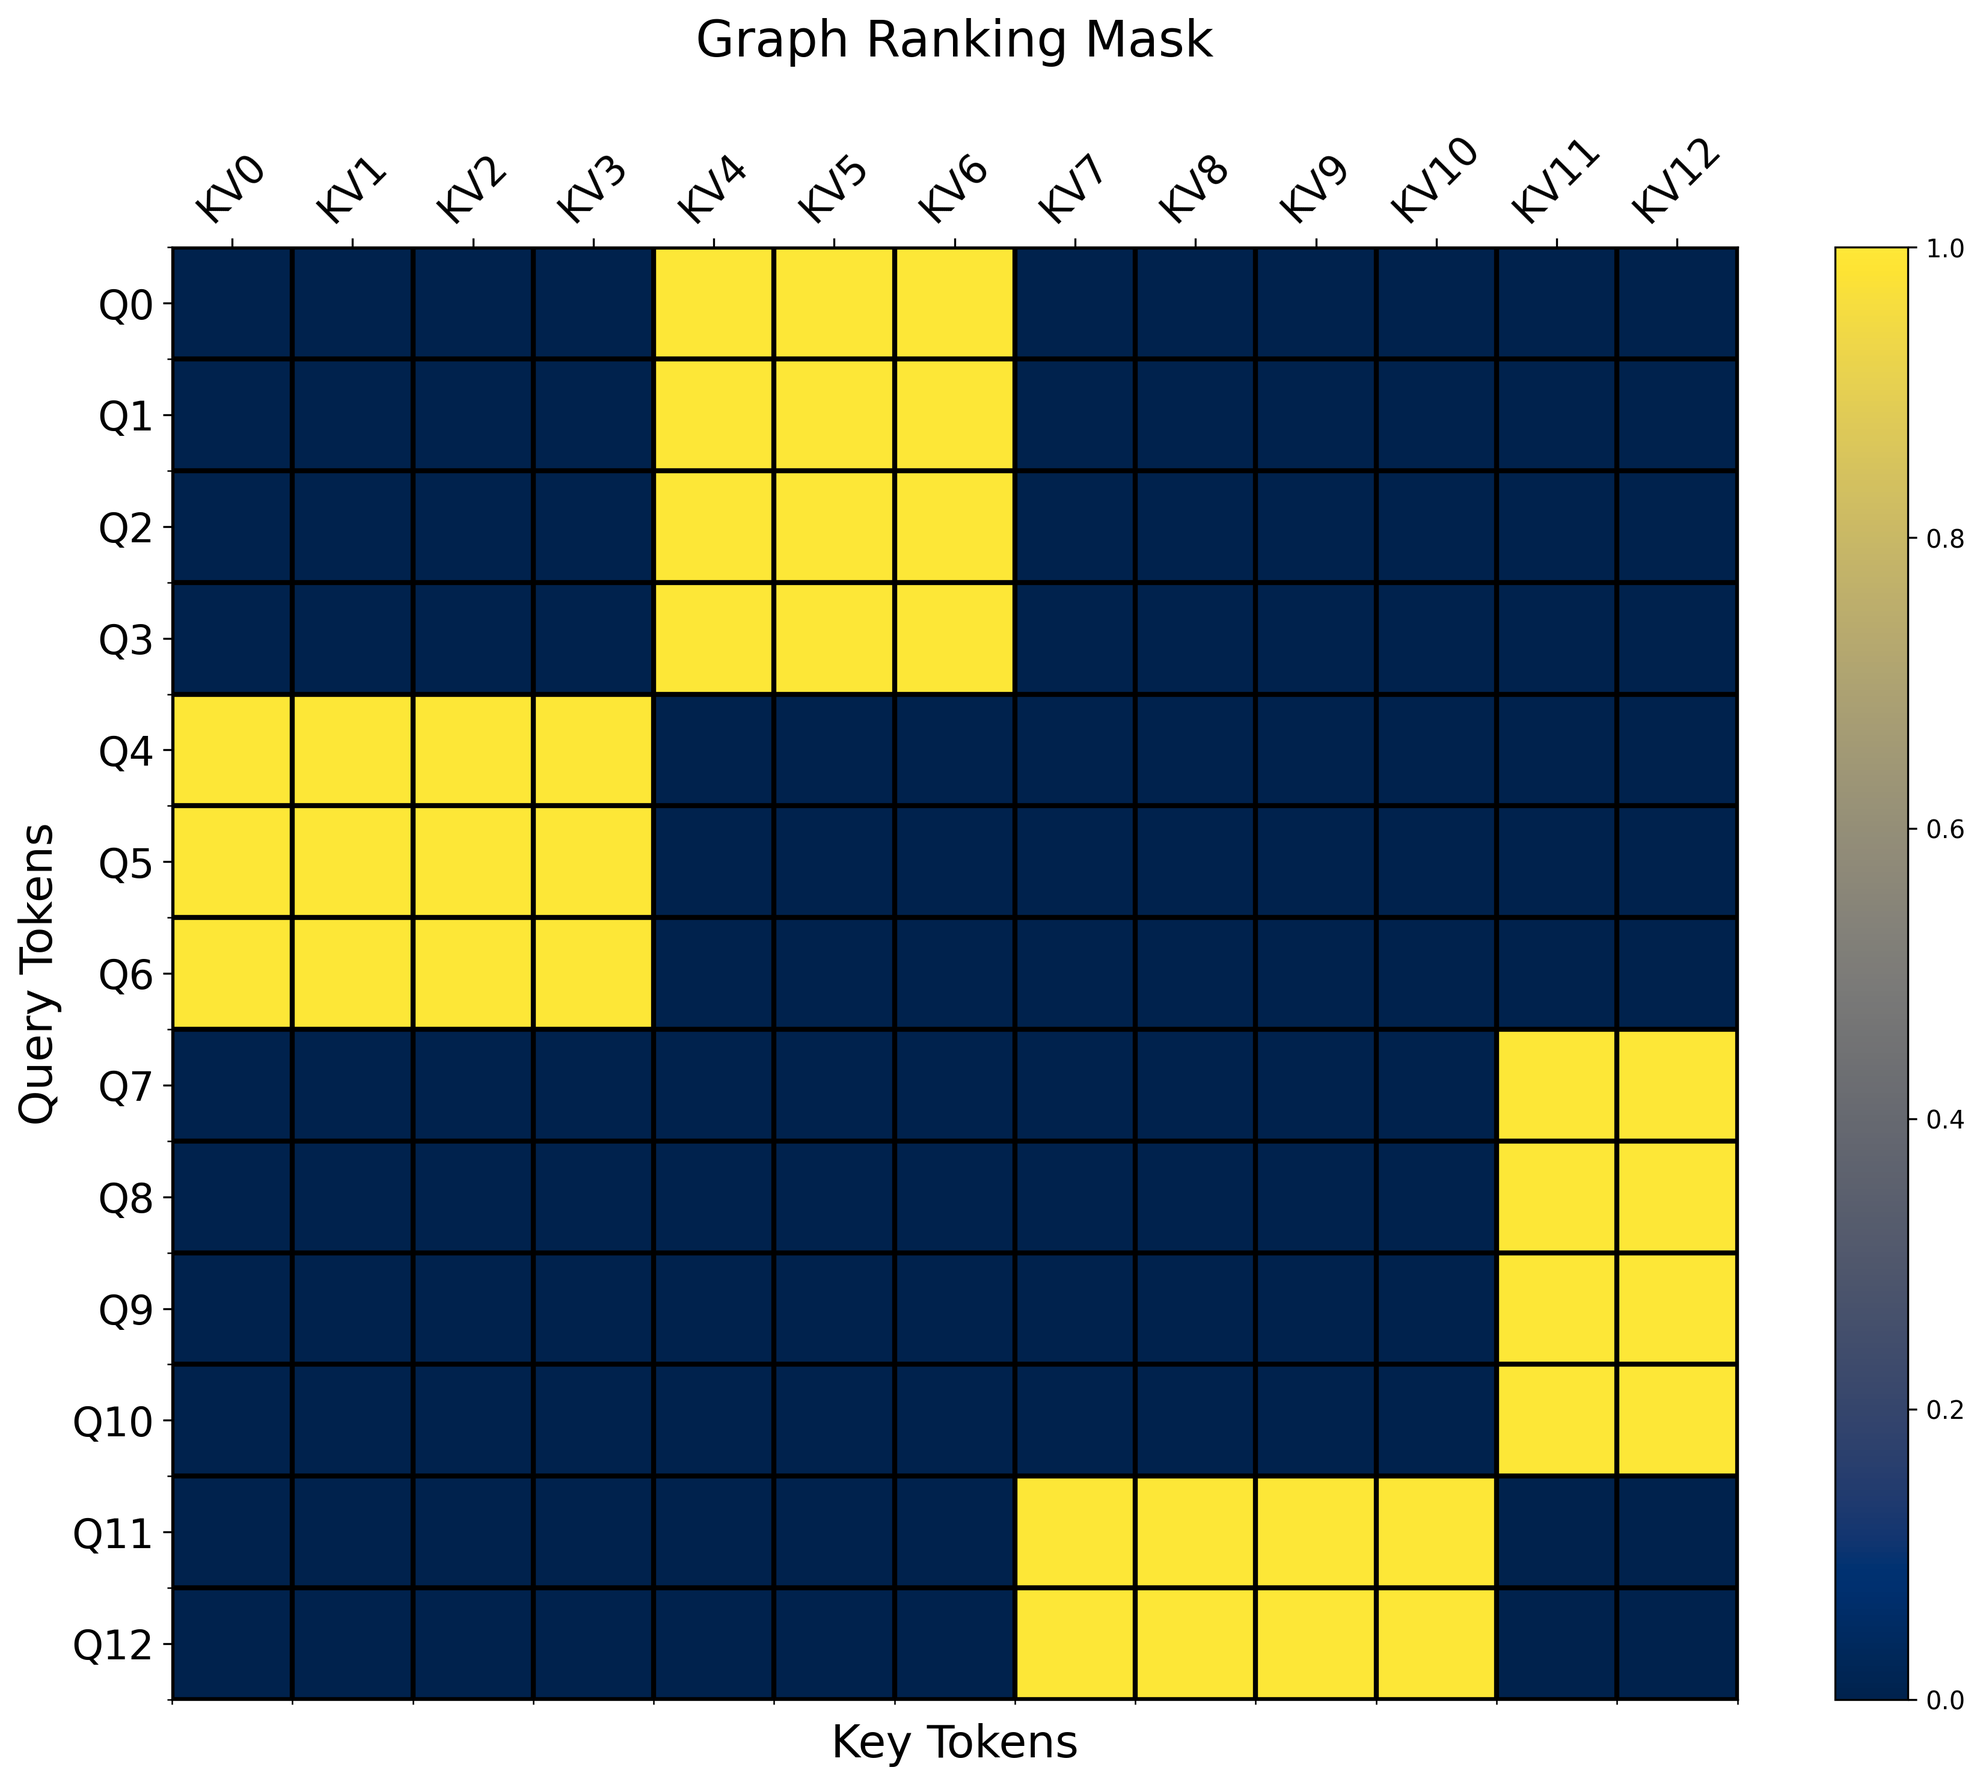
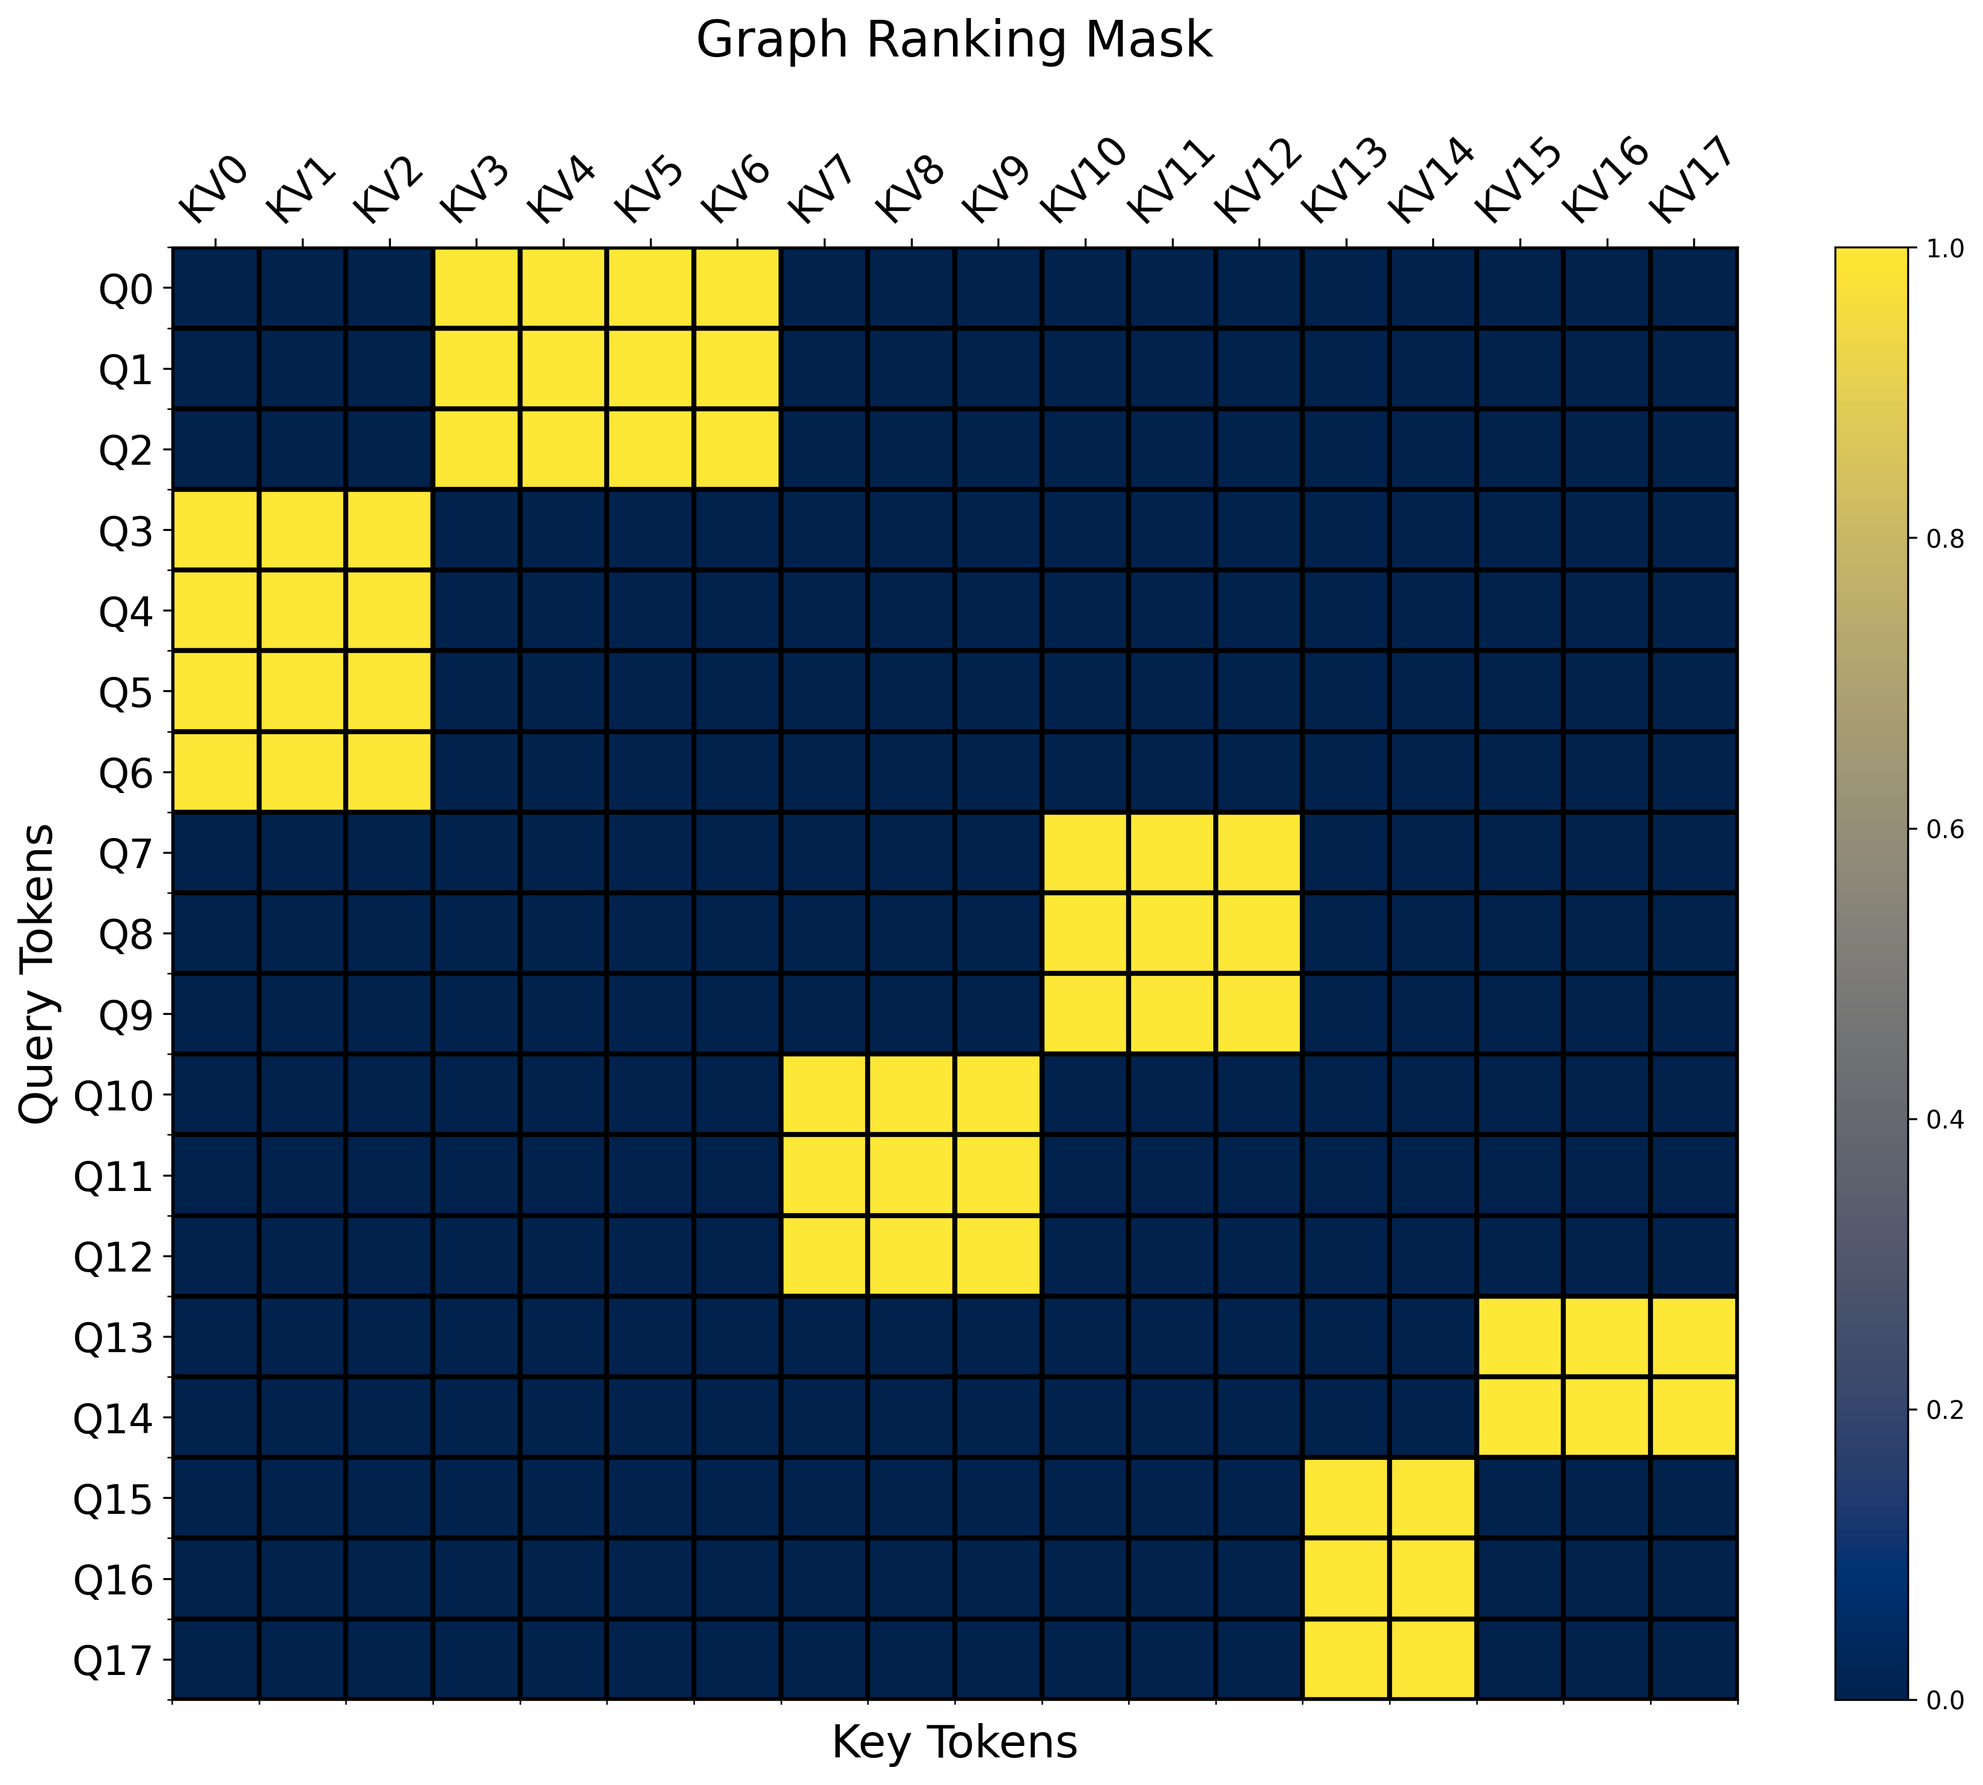
fri automated masking, refactored my_attention

Changed region(s): [[0.0312, 0.062, 0.8745, 0.9606], [0.0312, 0.8366, 0.0937, 0.9606]]

diff --git a/src/data/loader.py b/src/data/loader.py
@@ -3,7 +3,7 @@ from torch.utils.data import DataLoader
 from torch_geometric.data import Batch
 import numpy as np
 
-from data.misc import pair_attention_transform
+from src.data.misc import pair_attention_transform, transform_dataset_to_pair_dataset_torch
 
 class CustomDataLoader(DataLoader):
     def __init__(self, pairs_and_targets, dataset, batch_size=1, shuffle=False, mode='default', config=None, **kwargs):
@@ -21,7 +21,7 @@ class CustomDataLoader(DataLoader):
         # batch is a list of pairs and targets
         idx_a, idx_b, target = zip(*[(x[0], x[1], x[2]) for x in batch])
         if self.mode == 'default':
-            data = self.get_data_from_indices(idx_a, idx_b)
+            data = self.get_data_from_indices(idx_a, idx_b, unique=True)
             idx_a, idx_b = self.reindex_ids(idx_a, idx_b)
 
             # Create a DataBatch object
@@ -32,28 +32,45 @@ class CustomDataLoader(DataLoader):
             data_batch.idx_b = torch.tensor(idx_b)
             data_batch.y = torch.tensor(target)
         elif self.mode == 'gat_attention':
-            data_a = self.get_data_from_indices(idx_a, [], attention=True)
-            data_b = self.get_data_from_indices(idx_b, [], attention=True)
+            data_a = self.get_data_from_indices(idx_a, [], unique=False)
+            data_b = self.get_data_from_indices(idx_b, [], unique=False)
 
             data_a = Batch.from_data_list(data_a)
             data_b = Batch.from_data_list(data_b)
             data_a.y = torch.tensor(target)
             data_batch = [data_a, data_b]
         elif self.mode == 'nagsl_attention':
-            data_a = self.get_data_from_indices(idx_a, [], attention=True)
-            data_b = self.get_data_from_indices(idx_b, [], attention=True)
+            data_a = self.get_data_from_indices(idx_a, [], unique=False)
+            data_b = self.get_data_from_indices(idx_b, [], unique=False)
 
             data_a = Batch.from_data_list(data_a)
             data_b = Batch.from_data_list(data_b)
             data_batch = pair_attention_transform((data_a, data_b), torch.tensor(target), self.config)
+        elif self.mode == 'my_attention':
+            batch_with_connected_graphs = transform_dataset_to_pair_dataset_torch(self.entire_dataset, batch, self.config)
+            connected_graphs_edge_index = [torch.Tensor(g.edge_index, dtype=torch.int32) for g in batch_with_connected_graphs]
+            num_nodes = [g.num_nodes for g in batch_with_connected_graphs]
+            data = self.get_data_from_indices(idx_a, idx_b, unique=True)
+            idx_a, idx_b = self.reindex_ids(idx_a, idx_b)
+
+            # Create a DataBatch object
+            data_batch = Batch.from_data_list(data)
+
+            # Add idx_a and idx_b to the DataBatch object
+            data_batch.idx_a = torch.tensor(idx_a)
+            data_batch.idx_b = torch.tensor(idx_b)
+            data_batch.y = torch.tensor(target)
+            data_batch.document_id = torch.repeat_interleave(torch.arange(len(num_nodes)), torch.tensor(num_nodes), dim=0, output_size=sum(num_nodes))
+            data_batch.attention_data = connected_graphs_edge_index
         else:
             raise ValueError(f"Unknown mode {self.mode}")
 
         return data_batch
 
-    def get_data_from_indices(self, idx_a, idx_b, attention=False):
-        ids = np.unique(np.concatenate((idx_a, idx_b)))
-        if attention:
+    def get_data_from_indices(self, idx_a, idx_b, unique=False):
+        if unique:
+            ids = np.unique(np.concatenate((idx_a, idx_b)))
+        else:
             ids = idx_a
         required_data = [self.entire_dataset[int(i)] for i in ids]
         return required_data

diff --git a/src/models/torch_gnn.py b/src/models/torch_gnn.py
@@ -1,7 +1,7 @@
 import torch
 import torch.nn.functional as F
 from torch.nn import Linear, Dropout
-from torch.nn.attention.flex_attention import flex_attention, create_block_mask
+from torch.nn.attention.flex_attention import flex_attention, create_block_mask, _mask_mod_signature, noop_mask
 from torch_geometric.nn import GCNConv, GATConv, global_mean_pool, EdgeConv
 
 from src.models.misc import create_document_mask
@@ -213,10 +213,11 @@ class RANet(torch.nn.Module):
 
     def forward(self, data):
         # Compute block mask at beginning of forwards due to changing every batch
-        ranking_mask = create_document_mask(self.config['batch_size'], data.pair_indices, self.config['max_num_nodes'])
-        x, edge_index, batch = data.x, data.edge_index, data.batch
+        x, edge_index, batch, attention_data, document_id = data.x, data.edge_index, data.batch, data.attention_data, data.document_id
+        ranking_mask = self.generate_doc_mask_mod(document_id)
         x = x.type(torch.FloatTensor).to(self.device)
         x = self.convIn(x, edge_index)
+        a = flex_attention(query=attention_data, key=attention_data, value=attention_data, block_mask=ranking_mask)
         x = F.tanh(x)
         for i in range(self.config['model_layers'] - 2):
             x = self.conv2(x, edge_index)
@@ -236,3 +237,30 @@ class RANet(torch.nn.Module):
         out = F.sigmoid(out)
 
         return out
+
+    def generate_doc_mask_mod(self, document_id: torch.Tensor) -> _mask_mod_signature:
+        """Generates mask mods that apply to inputs to flex attention in the sequence stacked
+        format.
+
+        Args:
+            docment_id: A tensor that contains a unique id for each graph and has the length of the number of nodes in the graph-batch. Each id has the
+                        length of the number of nodes in the graph.
+
+        Note:
+            What is the sequence stacked format? When assembling batches of inputs, we
+            take multiple sequences and stack them together to form 1 large sequence. We then
+            use masking to ensure that the attention scores are only applied to tokens within
+            the different graphs but of the same pair.
+        """
+        unique = torch.unique(document_id)
+
+        def doc_mask_mod(b, h, q_idx, kv_idx):
+            dif_doc = (document_id[q_idx] != document_id[kv_idx])
+            operation = False
+            for i in range(0, len(unique), 2):
+                operation = operation | (((document_id[q_idx] == unique[i]) & (document_id[kv_idx] == unique[i + 1])) | (
+                            (document_id[q_idx] == unique[i + 1]) & (document_id[kv_idx] == unique[i])))
+
+            return dif_doc & operation
+
+        return doc_mask_mod

diff --git a/src/experiment.py b/src/experiment.py
@@ -35,9 +35,9 @@ if __name__ == '__main__':
     # Load + prep data
     if config['mode'] == 'nagsl_attention':
         config = config_add_nagsl(config)
-    if config['mode'] == 'default' or config['mode'] == 'gat_attention' or config['mode'] == 'nagsl_attention':
+    if config['mode'] == 'default' or config['mode'] == 'gat_attention' or config['mode'] == 'nagsl_attention' or config['mode'] == 'my_attention':
         train_dataset, valid_dataset, test_dataset, train_prefs, valid_prefs, test_prefs, test_ranking = get_data(config)
-    elif config['mode'] == 'fc_weight' or config['mode'] == 'fc_extra' or config['mode'] == 'my_attention':
+    elif config['mode'] == 'fc_weight' or config['mode'] == 'fc_extra':
         if os.path.isfile(f"data/{config['data_name']}.pkl"):
             with open(f"data/{config['data_name']}.pkl", 'rb') as f:
                 train_dataset, valid_dataset, test_dataset, test_prefs, test_ranking, config['num_node_features'], config['max_num_nodes'] = pickle.load(f)
@@ -57,7 +57,7 @@ if __name__ == '__main__':
         train_loader = CustomDataLoader(train_prefs,train_dataset, batch_size=config['batch_size'], shuffle=True, mode=config['mode'], config=config)
         valid_loader = CustomDataLoader(valid_prefs,valid_dataset, batch_size=config['batch_size'], shuffle=False, mode=config['mode'], config=config)
         test_loader = CustomDataLoader(test_prefs, test_dataset, batch_size=len(test_dataset), shuffle=False, mode=config['mode'], config=config)
-    elif config['mode'] == 'gat_attention' or config['mode'] == 'nagsl_attention':
+    elif config['mode'] == 'gat_attention' or config['mode'] == 'nagsl_attention' or config['mode'] == 'my_attention':
         train_loader = CustomDataLoader(train_prefs,train_dataset, batch_size=config['batch_size'], shuffle=True, mode=config['mode'], config=config)
         valid_loader = CustomDataLoader(valid_prefs,valid_dataset, batch_size=config['batch_size'], shuffle=False, mode=config['mode'], config=config)
         test_loader = CustomDataLoader(test_prefs, test_dataset, batch_size=len(test_prefs), shuffle=False, mode=config['mode'], config=config)

diff --git a/src/b.py b/src/b.py
@@ -47,22 +47,17 @@ def generate_doc_mask_mod(mask_mod: _mask_mod_signature, offsets: Tensor) -> _ma
         use masking to ensure that the attention scores are only applied to tokens within
         the same document.
     """
-    document_id = torch.tensor([0,0,0,1,1,1,1,2,2,2,3,3,3])#_offsets_to_doc_ids_tensor(offsets)
-    bin_count = torch.bincount(document_id)
+    document_id = torch.tensor([0,0,0,1,1,1,1,2,2,2,3,3,3,4,4,5,5,5])#_offsets_to_doc_ids_tensor(offsets)
     unique = torch.unique(document_id)
     def doc_mask_mod(b, h, q_idx, kv_idx):
-        print(q_idx, kv_idx, document_id, bin_count, unique)
-        # doc_id1 = document_id[0:6]
-        # doc_id2 = document_id[7:]
-        # q_idx1 = q_idx.value
-        # for x in q_idx:
-        #     print(x)
-        dif_doc = ((document_id[q_idx] != document_id[kv_idx])
-                   & (((document_id[q_idx] == unique[0]) & (document_id[kv_idx] == unique[1])) | ((document_id[q_idx] == unique[1]) & (document_id[kv_idx] == unique[0])))
-                   | (((document_id[q_idx] == unique[2]) & (document_id[kv_idx] == unique[3])) | ((document_id[q_idx] == unique[3]) & (document_id[kv_idx] == unique[2])))
-                   )
+        dif_doc = (document_id[q_idx] != document_id[kv_idx])
         same_doc = document_id[q_idx] == document_id[kv_idx]
-        return dif_doc # same_doc
+        operation = False
+        for i in range(0, len(unique), 2):
+            operation = operation | (((document_id[q_idx] == unique[i]) & (document_id[kv_idx] == unique[i + 1])) | (
+                        (document_id[q_idx] == unique[i + 1]) & (document_id[kv_idx] == unique[i])))
+
+        return dif_doc & operation# same_doc
 
     return doc_mask_mod
 
@@ -90,7 +85,7 @@ def main(device: str = "cpu", causal: bool = True):
 
         return lengths
 
-    max_seq_len, doc_count = 13, 3
+    max_seq_len, doc_count = 18, 3
     B, H, SEQ_LEN, HEAD_DIM = 1, 1, max_seq_len, 8
 
     lengths = generate_random_lengths(max_seq_len, doc_count)

diff --git a/src/data/misc.py b/src/data/misc.py
@@ -175,7 +175,7 @@ def combine_two_graphs_torch(graph_a, graph_b, bidirectional=False):
     edge_index = data_batch.edge_index
     edge_attr = data_batch.edge_attr
     target = 1 if graph_a.y.item() >= graph_b.y.item() else 0
-    # connect two graphss
+    # connect two graphs
     adj = torch.cartesian_prod(torch.arange(num_nodes_graph_a),
                                torch.arange(num_nodes_graph_a, num_nodes_graph_a + num_nodes_graph_b))
     adj = adj.transpose(0, 1)  # have it look like edge_index
@@ -184,9 +184,10 @@ def combine_two_graphs_torch(graph_a, graph_b, bidirectional=False):
         adj1 = adj[1]
         adj0, adj1 = torch.cat((adj0, adj1)), torch.cat((adj1, adj0))
         adj = torch.stack((adj0, adj1))
+    edge_index = torch.cat((edge_index, adj), axis=1)
     # create new graph
-    new_graph = Data(x=node_features, edge_attr=edge_attr, edge_index=edge_index, y=target, adj=adj,
-                     num_nodes=num_nodes_graph_a + num_nodes_graph_b)
+    new_graph = Data(x=node_features, edge_attr=edge_attr, edge_index=edge_index, y=target,
+                     num_nodes=num_nodes_graph_a+num_nodes_graph_b)
 
     return new_graph
 

diff --git a/src/data/load.py b/src/data/load.py
@@ -48,9 +48,9 @@ def get_data(config):
     if config['mode'] == 'default':
         test_prefs = np.array([[0, i, 0] for i in range(0, len(test_dataset))])# differs due to only needed for prediction
         return train_dataset, valid_dataset, test_dataset, train_prefs, valid_prefs, test_prefs, test_ranking
-    elif config['mode'] == 'gat_attention' or config['mode'] == 'nagsl_attention':
+    elif config['mode'] == 'gat_attention' or config['mode'] == 'nagsl_attention' or config['mode'] == 'my_attention':
         return train_dataset, valid_dataset, test_dataset, train_prefs, valid_prefs, test_prefs, test_ranking
-    elif config['mode'] == 'fc_weight' or config['mode'] == 'my_attention':
+    elif config['mode'] == 'fc_weight':
         train_dataset = transform_dataset_to_pair_dataset(train_dataset, train_prefs, config)
         valid_dataset = transform_dataset_to_pair_dataset(valid_dataset, valid_prefs, config)
         test_dataset = transform_dataset_to_pair_dataset(test_dataset, test_prefs, config)
